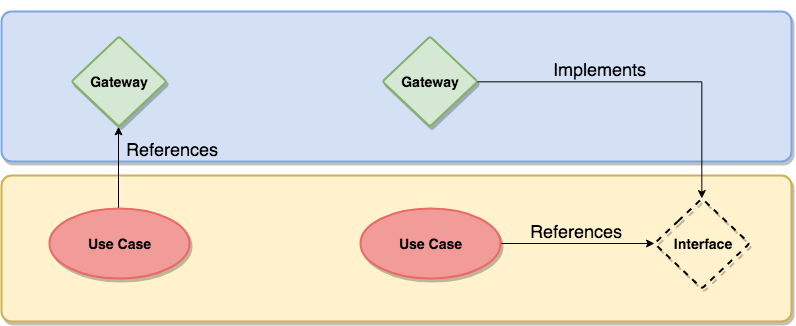
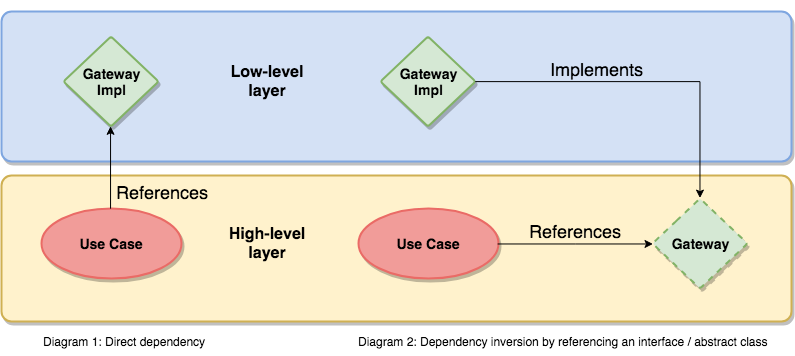
Explain a bit about The Dependency Injection

diff --git a/README.md b/README.md
@@ -64,16 +64,21 @@ Similarly, data is converted, in this layer, from the form most convenient for e
 The outermost layer is composed of frameworks and tools such as the Database and the Android Framework.</br>
 The Repository pattern is used to encapsulate the details about caching mechanism.
 
-### The Dependency Inversion: WIP
+### The Dependency Inversion
 
-In order to not violate the Dependency Rule, the [Dependency Inversion Principle] must be used whenever complex data needs to be passed across a boundary to an inward layer. Instead of expecting and directly referencing a low-level component (e.g. as a function parameter), the high-level layer provides and references an interface that must be implemented and inherited from by the caller. This way, the conventional dependency relationship is inverted and the high-level layer is decoupled from the low-level component.
-
-
-### The Inversion of Control Principle and Dependency Injection: WIP
+In order to not violate the Dependency Rule, the [Dependency Inversion principle] must be used whenever complex data needs to be passed across a boundary to an inward layer. Instead of expecting and directly referencing a low-level component (e.g. as a function parameter), the high-level layer provides and references an interface that must be implemented and inherited from by the caller. This way, the conventional dependency relationship is inverted and the high-level layer is decoupled from the low-level component.
 
 <p align="center">
   <img alt='Inversion of Control' src="https://raw.githubusercontent.com/andremion/Theatre/master/art/inversion_of_control.png"></br>
 </p>
+
+### The Dependency Injection
+
+To make the application more testable and avoid having to deal with object instantiations in many points, the [Dependency Injection technique] is used. 
+
+> Dependency injection is one form of the broader technique of inversion of control. As with other forms of inversion of control, dependency injection supports the dependency inversion principle.
+ 
+[Dagger] is the tool used for managing and injection of our dependencies. 
 
 ### Modules: WIP
 
@@ -132,7 +137,7 @@ A set of Kotlin extensions for Android app development.
 * [Android Architecture Components](https://developer.android.com/topic/libraries/architecture/index.html)
 A collection of libraries that help you design robust, testable, and maintainable apps.
 Start with classes for managing your UI component lifecycle and handling data persistence.
-* [Dagger](https://google.github.io/dagger/)
+* [Dagger]
 A fully static, compile-time dependency injection framework for both Java and Android.
 
 ### Reactive
@@ -219,6 +224,8 @@ Follow the "fork-and-pull" Git workflow.
 [Event]: domain/src/main/kotlin/com/andremion/domain/entity/Event.kt "Event entity"
 [Rating]: domain/src/main/kotlin/com/andremion/domain/entity/Rating.kt "Rating entity"
 [MVVM]: https://en.wikipedia.org/wiki/Model%E2%80%93view%E2%80%93viewmodel "Model–View–ViewModel (MVVM) on Wikipedia"
-[Dependency Inversion Principle]: https://en.wikipedia.org/wiki/Dependency_inversion_principle "Dependency Inversion Principle on Wikipedia"
+[Dependency Inversion principle]: https://en.wikipedia.org/wiki/Dependency_inversion_principle "Dependency Inversion principle on Wikipedia"
+[Dependency Injection technique]: https://en.wikipedia.org/wiki/Dependency_injection "Dependency Injection technique on Wikipedia"
+[Dagger]: https://google.github.io/dagger/ "Dagger"
 [here]: https://iodocs.londontheatredirect.com/member/register "Register Account on LondonTheatreDirect API"
 [gradle.properties]: data/gradle.properties "gradle.properties file"
